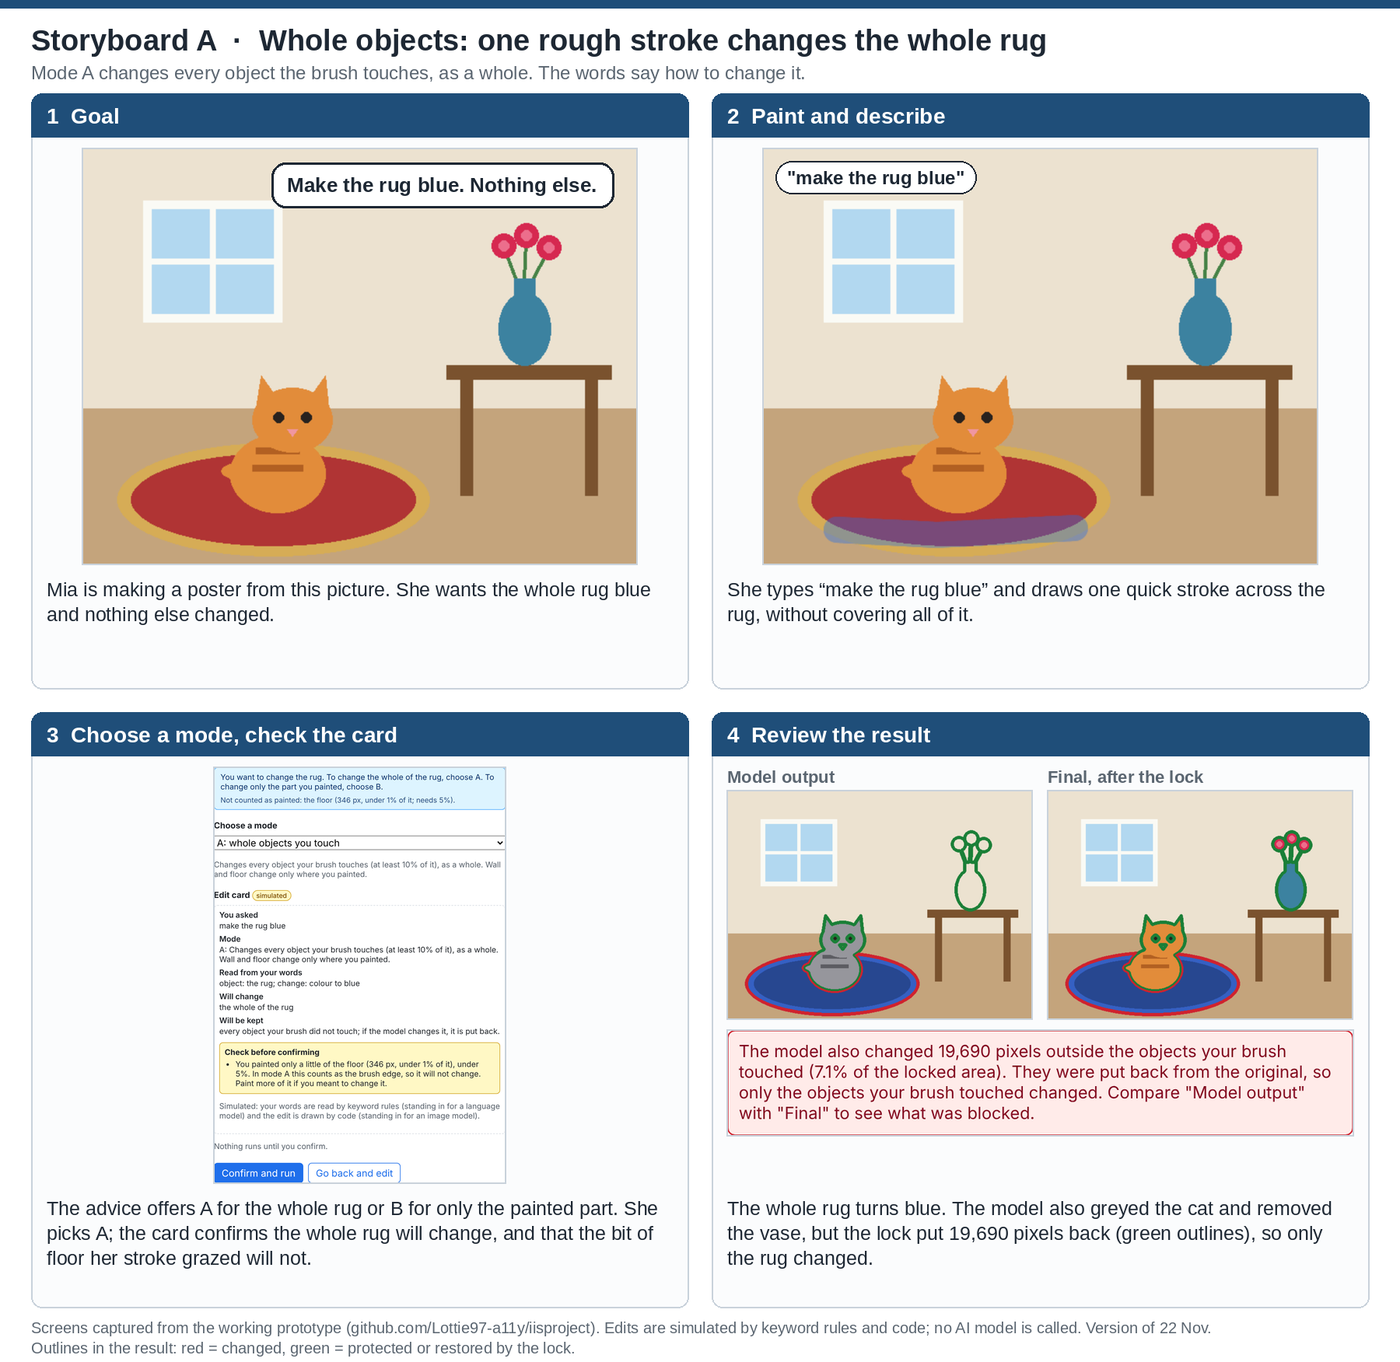
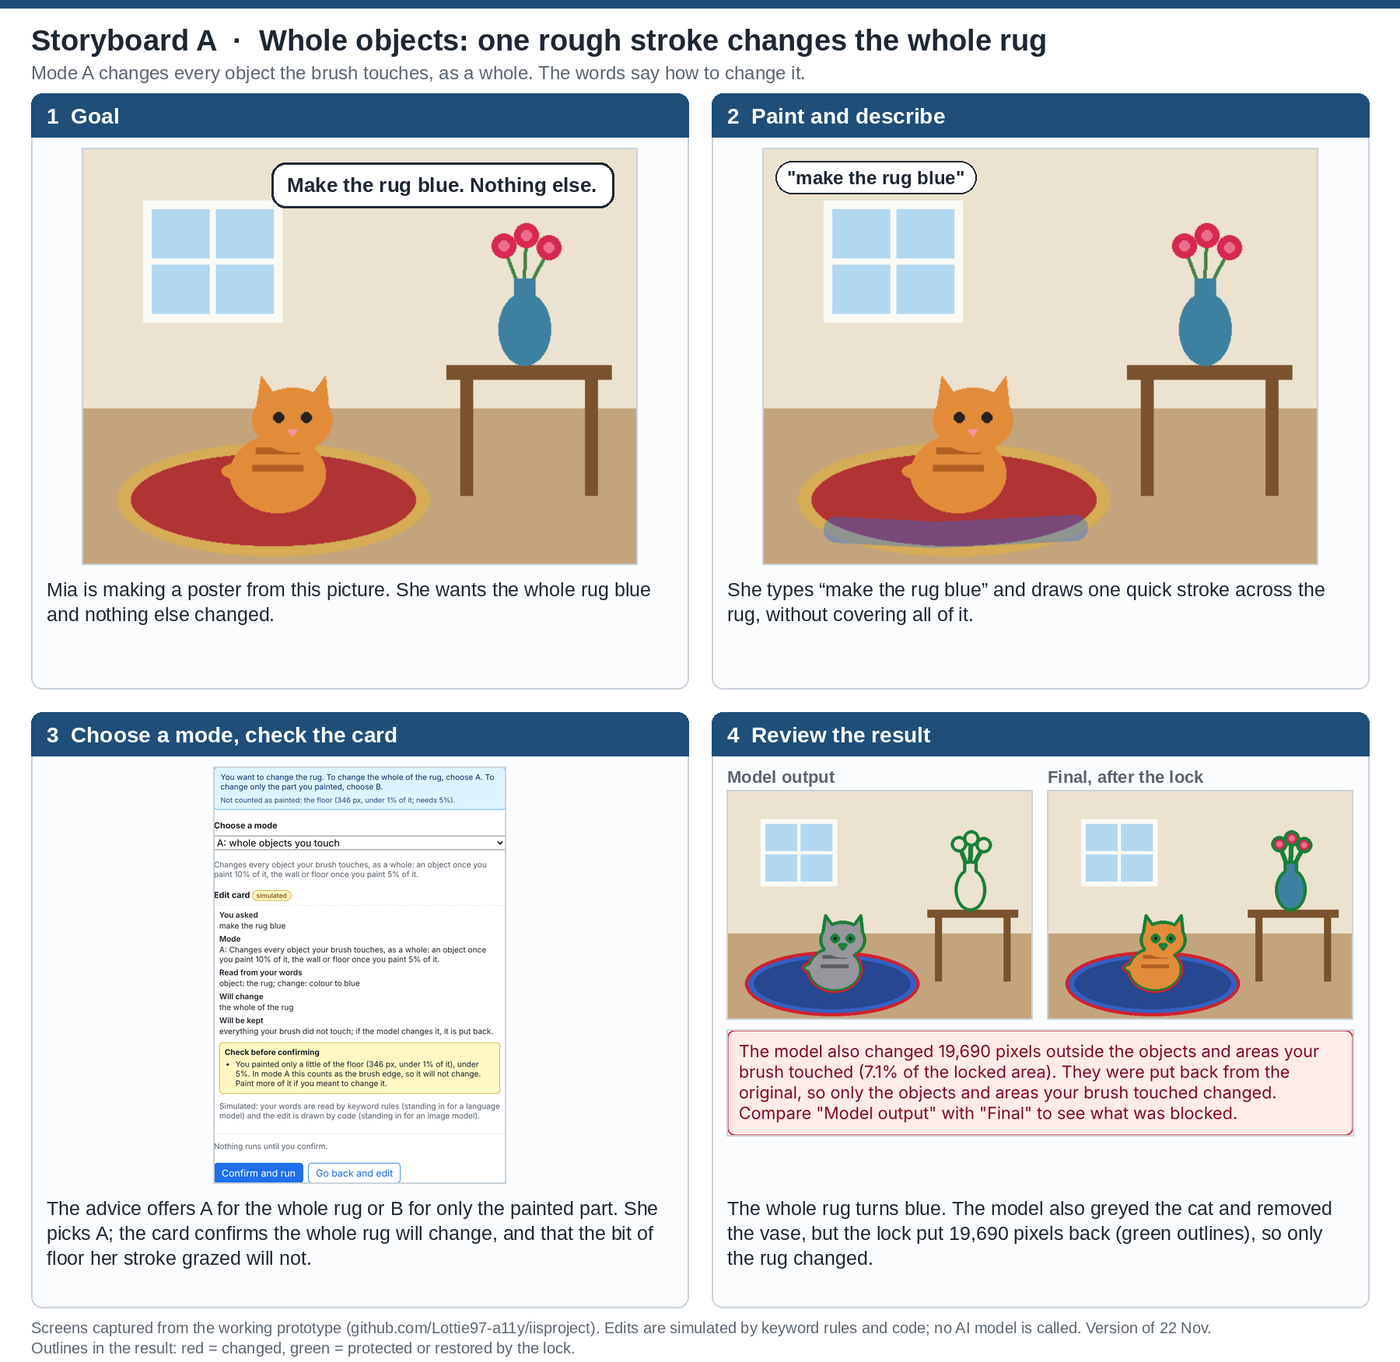
Mode A: wall and floor change as a whole from 5%; fix share display and thresholds in messages; remove old root images

Changed region(s): [[0.5289, 0.7705, 0.9333, 0.8322], [0.2489, 0.6164, 0.3111, 0.6473], [0.28, 0.6781, 0.3111, 0.7089]]

diff --git a/static/app.js b/static/app.js
@@ -12,8 +12,8 @@
 //                   changes the lock reversed.
 //
 // Three modes: which pixels the confirmed edit may change.
-//   A  whole objects: every object the brush touches changes as a whole
-//      (wall and floor only where painted)
+//   A  whole objects: every object the brush touches changes as a whole,
+//      the wall and floor too once enough of them is painted
 //   B  named and painted: only the objects the words name, only where painted
 //   C  painting: everything painted, whatever it is
 // In every mode the simulated model also changes things it was not asked to (like my Lab 3
@@ -38,12 +38,15 @@ const PROTECTED = 2;
 const EDIT_OUTLINE = [207, 34, 46, 255];
 const PROTECTED_OUTLINE = [26, 127, 55, 255];
 // Background ("stuff") comes from the scene data, as a segmentation model would label it;
-// it changes only where painted, never as a whole. Filled in when the sample loads.
+// it needs a smaller painted share to count (5%). Filled in when the sample loads.
 let BACKGROUND = new Set();
 // 22 Nov: share of an object's own area that must be painted for it to count (brush edges below)
 const MIN_SHARE = 0.10;    // objects
 const MIN_SHARE_BG = 0.05; // background
 const pct = (x) => `${Math.round(x * 100)}%`;
+// painted share for messages: one decimal below 10%, so 4.6% is not shown as "5%" next to "needs 5%"
+const sharePct = (s) => (s < 0.01 ? "under 1%" : s < 0.1 ? `${(s * 100).toFixed(1)}%` : pct(s));
+const needPct = (id) => pct(BACKGROUND.has(id) ? MIN_SHARE_BG : MIN_SHARE);
 
 const samples = Array.isArray(window.SAMPLES) ? window.SAMPLES : [];
 
@@ -58,7 +61,7 @@ const state = {
   editableShare: 0,   // share of pixels the user marked as editable (0..1)
   scene: null,        // objects in the current image (static/rules.js)
   objMap: null,       // pixel -> object index
-  confirmed: null,    // what the user confirmed: { mode, instruction, parsed }
+  confirmed: null,    // what the user confirmed: { mode, instruction, parsed, touched, bgTouched, counted }
   original: null,     // ImageData of the unedited image
   outcome: null,      // { raw, final, drift, driftCount, editedCount, lockedCount }
   kept: false,
@@ -94,7 +97,7 @@ function loadSample(sample) {
 }
 
 const MODE_HELP = {
-  A: "Changes every object your brush touches (at least 10% of it), as a whole. Wall and floor change only where you painted.",
+  A: "Changes every object your brush touches, as a whole: an object once you paint 10% of it, the wall or floor once you paint 5% of it.",
   B: "Changes only the objects your words name, and only where you painted them.",
   C: "Changes everything you painted, whatever it is.",
 };
@@ -295,7 +298,7 @@ function analyse(parsed) {
   const paintedObjects = [...paintedBy.keys()].filter(counts);
   const ignored = [...paintedBy.entries()].filter(([id]) => !counts(id)).map(([id, n]) => [id, n, shareOf(id)]);
   const touched = paintedObjects.filter((id) => !BACKGROUND.has(id)); // objects A changes whole
-  // in A, the background changes where painted only from MIN_SHARE_BG of it; less is a brush edge
+  // background painted from MIN_SHARE_BG of it; in A it then changes as a whole, less is a brush edge
   const bgTouched = paintedObjects.filter((id) => BACKGROUND.has(id));
   const bgEdge = ignored.filter(([id]) => BACKGROUND.has(id));
   // share of each object that is painted, in per cent
@@ -310,7 +313,7 @@ function analyse(parsed) {
 //   otherwise (words name none, other or more/fewer objects than painted):
 //     one object      -> the object is not clear: suggest C
 //     several objects -> the scope is not clear: suggest C
-// Nothing painted except wall or floor: no advice.
+// Nothing counts as painted: no advice (makeCard then explains the thresholds).
 function modeAdvice(parsed, a) {
   const painted = a.paintedObjects;
   if (!painted.length) return null;
@@ -323,8 +326,7 @@ function modeAdvice(parsed, a) {
   }
   if (same) {
     const shares = painted.map((id) => `${objName(id)} ${a.share[id]}%`).join(", ");
-    const bgNote = painted.some((id) => BACKGROUND.has(id)) ? " (In A, the wall and floor still change only where you painted.)" : "";
-    return { text: `You want to change ${listNames(painted)}. Share of each object you painted: ${shares}. ${choice("these objects")}${bgNote}` };
+    return { text: `You want to change ${listNames(painted)}. Share of each object you painted: ${shares}. ${choice("these objects")}` };
   }
   if (painted.length === 1) {
     return { text: `You have not made clear which object to change. We suggest mode C, which changes exactly what you painted (${objName(painted[0])}).` };
@@ -351,7 +353,7 @@ function makeCard() {
     const rule = document.createElement("small");
     rule.className = "advice-rule";
     const skipped = a.ignored.map(([id, n, s]) =>
-      `${objName(id)} (${n} px, ${s < 0.01 ? "under 1%" : pct(s)} of it; needs ${BACKGROUND.has(id) ? pct(MIN_SHARE_BG) : pct(MIN_SHARE)})`);
+      `${objName(id)} (${n} px, ${sharePct(s)} of it; needs ${needPct(id)})`);
     rule.textContent = `Not counted as painted: ${skipped.join(", ")}.`;
     box.appendChild(rule);
   }
@@ -403,25 +405,25 @@ function renderCard(mode, typed, parsed, a) {
   let willKeep = "everything you did not paint; if the model changes it, it is put back.";
   if (mode === "A") {
     // 21 Nov (user's design): A changes every object the brush touches, as a whole.
-    const parts = [];
-    if (a.touched.length) parts.push(`the whole of ${listNames(a.touched)}`);
-    if (a.bgTouched.length) parts.push(`${listNames(a.bgTouched)} only where you painted`);
-    willChange = parts.join("; ") || "nothing yet";
-    willKeep = "every object your brush did not touch; if the model changes it, it is put back.";
-    const missed = parsed.targets.filter((id) => !a.touched.includes(id) && !a.bgTouched.includes(id));
-    const extra = a.touched.filter((id) => !parsed.targets.includes(id));
-    if (!a.touched.length && !a.bgTouched.length) {
+    // 22 Nov (user's decision): the wall and floor too, once 5% of them is painted.
+    const all = [...a.touched, ...a.bgTouched];
+    willChange = all.length ? `the whole of ${listNames(all)}` : "nothing yet";
+    willKeep = "everything your brush did not touch; if the model changes it, it is put back.";
+    const missed = parsed.targets.filter((id) => !all.includes(id));
+    const extra = all.filter((id) => !parsed.targets.includes(id));
+    if (!all.length) {
       block.push(`Your brush only grazes the edges (under ${pct(MIN_SHARE)} of an object or ${pct(MIN_SHARE_BG)} of the background), so in mode A nothing would change. Paint more of the object you want to change.`);
     }
     if (a.bgEdge.length) {
-      const edges = a.bgEdge.map(([id, n, s]) => `${objName(id)} (${n} px, ${s < 0.01 ? "under 1%" : pct(s)} of it)`);
+      const edges = a.bgEdge.map(([id, n, s]) => `${objName(id)} (${n} px, ${sharePct(s)} of it)`);
       warn.push(`You painted only a little of ${edges.join(" and ")}, under ${pct(MIN_SHARE_BG)}. In mode A this counts as the brush edge, so `
         + `${a.bgEdge.length > 1 ? "they" : "it"} will not change. Paint more of ${a.bgEdge.length > 1 ? "them" : "it"} if you meant to change ${a.bgEdge.length > 1 ? "them" : "it"}.`);
     }
-    if (missed.length) warn.push(`Your words name ${listNames(missed)}, but you did not paint enough of ${missed.length > 1 ? "them" : "it"} to count (at least ${pct(MIN_SHARE)}). This mode changes what you paint, so ${listNames(missed)} will not change.`);
-    if (a.touched.length > 1) {
-      // 22 Nov: extra warning whenever the brush range will change more than one whole object
-      warn.push(`Your brush touches ${a.touched.length} objects: ${listNames(a.touched)}. Mode A will change each of them as a whole`
+    if (missed.length) warn.push(`Your words name ${listNames(missed)}, but you did not paint enough of ${missed.length > 1 ? "them" : "it"} to count (`
+      + missed.map((id) => `at least ${needPct(id)} of ${objName(id)}`).join(", ") + `). This mode changes what you paint, so ${listNames(missed)} will not change.`);
+    if (all.length > 1) {
+      // 22 Nov: extra warning whenever the brush range will change more than one whole object or area
+      warn.push(`Your brush touches ${all.length} ${a.bgTouched.length ? "areas" : "objects"}: ${listNames(all)}. Mode A will change each of them as a whole`
         + (extra.length ? `, including ${listNames(extra)}, which your words do not name` : "")
         + `. If you meant only one object, go back and paint inside it, or choose B.`);
     } else if (named && extra.length) {
@@ -480,7 +482,7 @@ function renderCard(mode, typed, parsed, a) {
   card.appendChild(note);
 
   $("confirmBtn").disabled = block.length > 0;
-  state.pending = { mode, instruction: typed, parsed, touched: a.touched, bgTouched: a.bgTouched };
+  state.pending = { mode, instruction: typed, parsed, touched: a.touched, bgTouched: a.bgTouched, counted: a.paintedObjects };
 }
 
 function confirmEdit() {
@@ -503,7 +505,7 @@ function inScope(conf, p, painted) {
   const id = k >= 0 ? state.scene.objects[k].id : null;
   if (conf.mode === "A") {
     if (!id) return painted;
-    return BACKGROUND.has(id) ? painted && conf.bgTouched.includes(id) : conf.touched.includes(id);
+    return conf.touched.includes(id) || conf.bgTouched.includes(id); // whole objects, wall and floor alike
   }
   if (conf.mode === "B") return painted && !!id && conf.parsed.targets.includes(id);
   return painted;
@@ -528,7 +530,7 @@ function simulateModel(conf) {
   }
   // Unwanted extra changes, as a real model makes (my Lab 3 Test B), in every mode. Objects
   // the edit is meant to change are left alone; the lock puts the rest back.
-  const meant = new Set(mode === "A" ? conf.touched : parsed.targets);
+  const meant = new Set(mode === "A" ? [...conf.touched, ...conf.bgTouched] : parsed.targets);
   if (mode === "C") for (let p = 0; p < edited.length; p++) if (edited[p] && state.objMap[p] >= 0) meant.add(objs[state.objMap[p]].id);
   {
     for (const d of state.scene.drift) {
@@ -607,7 +609,7 @@ function reportDrift() {
   const box = $("driftReport");
   const pct = o.lockedCount ? ((o.driftCount / o.lockedCount) * 100).toFixed(1) : "0.0";
   const conf = state.confirmed;
-  const scope = conf.mode === "A" ? "the objects your brush touched"
+  const scope = conf.mode === "A" ? "the objects and areas your brush touched"
     : conf.mode === "B" ? `the painted part of ${listNames(conf.parsed.targets)}` : "the area you painted";
   $("outlineKey").textContent = "Red marks edits kept in the final image. Green marks changes the lock reversed.";
   const offTarget = offTargetChanges();
@@ -629,20 +631,12 @@ function reportDrift() {
   }
 }
 
-// Objects changed in the final image that the user's words did not name (modes A and C).
+// Areas changed that the user's words did not name (modes A and C), by the same 10% / 5%
+// rule as the card. In C the wall and floor change only where painted, so they are not listed.
 function offTargetChanges() {
-  const { parsed } = state.confirmed;
-  if (!parsed.targets.length) return [];
-  const f = state.outcome.final.data, orig = state.original.data;
-  const count = new Map();
-  for (let i = 0; i < f.length; i += 4) {
-    if (f[i] === orig[i] && f[i + 1] === orig[i + 1] && f[i + 2] === orig[i + 2]) continue;
-    const k = state.objMap[i / 4];
-    if (k < 0) continue;
-    const id = state.scene.objects[k].id;
-    if (!parsed.targets.includes(id) && !BACKGROUND.has(id)) count.set(id, (count.get(id) || 0) + 1);
-  }
-  return [...count.entries()].filter(([, n]) => n >= 40).map(([id]) => id);
+  const { mode, parsed, counted } = state.confirmed;
+  if (!parsed.targets.length || mode === "B") return [];
+  return counted.filter((id) => !parsed.targets.includes(id) && (mode === "A" || !BACKGROUND.has(id)));
 }
 
 function viewName() {

diff --git a/static/rules.js b/static/rules.js
@@ -5,7 +5,7 @@
 // 2. SCENE: the objects in samples/room.png. Every object is drawn in its own flat colours
 //    (see tools/make_sample.py), so each pixel can be assigned to an object by its colour.
 //    This stands in for a segmentation model.
-// 3. editPixels(): draws the edit in code. It stands in for an image-editing model.
+// 3. editPixel(): draws the edit in code. It stands in for an image-editing model.
 
 window.SCENE = {
   "room.png": {
@@ -23,8 +23,8 @@ window.SCENE = {
       { id: "wall", words: ["wall", "walls"], colours: [[236, 226, 208]], stuff: true }, // stuff = background, as a segmentation model would label it
       { id: "floor", words: ["floor"], colours: [[196, 164, 124]], stuff: true },
     ],
-    // Mode B only: unwanted changes a words-led, whole-image model also makes (as in my
-    // Lab 3 Test B). Each applies only if none of its objects is named in the instruction.
+    // Unwanted changes a whole-image model also makes (as in my Lab 3 Test B), in every mode.
+    // Each applies only if none of its objects is meant to change (see simulateModel()).
     drift: [
       { objects: ["cat"], map: [[[226, 140, 58], [150, 150, 156]], [[178, 96, 34], [92, 92, 98]]] }, // grey tabby
       { objects: ["vase", "roses"], vanish: true }, // the vase of roses disappears

diff --git a/index.html b/index.html
@@ -113,6 +113,6 @@
 
   <script src="static/samples.js?v=20261120a"></script>
   <script src="static/rules.js?v=20261122c"></script>
-  <script src="static/app.js?v=20261122c"></script>
+  <script src="static/app.js?v=20261122d"></script>
 </body>
 </html>

diff --git a/README.md b/README.md
@@ -1,6 +1,6 @@
 # Region-locked image editing (IIS A2 prototype)
 
-Prose word count: 1825 (code and commands not counted)
+Prose word count: 1983 (code and commands not counted)
 
 When people use text prompts to edit part of an AI-generated image, the model can change other parts they wanted to keep. Building on my A1 literature review, this browser prototype explores letting users lock those areas so the system preserves them during editing. It compares three ways of combining the user's words with their painting.
 
@@ -12,7 +12,7 @@ Live page: https://lottie97-a11y.github.io/iisproject/
 | --- | --- |
 | Sample image on a canvas, browser only | implemented |
 | Mask painting (brush size, erase, clear); painted area in blue; optional dimming outside the brush strokes, with painted areas in their true colours | implemented |
-| Three modes: A changes every object the brush touches, as a whole (wall and floor only where painted); B changes only the objects the words name, only where painted; C changes everything painted. In every mode the simulated model also makes unwanted changes (the cat turns grey, the vase of roses vanishes), which the lock puts back | the choice is implemented; each mode's edit is simulated |
+| Three modes: A changes every object the brush touches, as a whole, the wall and floor included; B changes only the objects the words name, only where painted; C changes everything painted. In every mode the simulated model also makes unwanted changes (the cat turns grey, the vase of roses vanishes), which the lock puts back | the choice is implemented; each mode's edit is simulated |
 | Reading the instruction (object, colour, brighter or darker) | simulated: keyword rules stand in for a language model |
 | Mode chosen on the edit-card step, with advice on which mode to choose (an object counts as painted from 10% of its area, the background from 5%); the card is built from the words, the painting and the mode and rebuilt when the mode changes; it warns about painted objects the words do not name and blocks a run that would change nothing | implemented |
 | Confirm / go back: the result step opens only after Confirm | implemented |
@@ -56,7 +56,9 @@ The first two changes are in commit [4407188](https://github.com/Lottie97-a11y/i
 - **21 Nov – Whole-object selection in A.** A brush stroke selects each named object it touches in full. Unnamed objects touched by the same stroke keep their original colours and get green outlines. Replaced the same day (next entry).
 - **21 Nov – Three modes redefined.** A now changes every object the brush touches, as a whole (wall and floor only where painted); B changes only the named objects, only where painted (the former A); C is unchanged. The model's unwanted changes now happen in every mode, so the lock is tested in all three. The mode is now chosen on the edit-card step, so the same painting and words can be compared across modes; on the result page, "Back to previous step" (formerly "Back to original") undoes the edit and returns to that step. On that step, advice suggests a mode: if the words name exactly the painted objects, A (whole objects) or B (painted parts), with the painted share of each object when there are several; otherwise C. In mode A, the edit card also warns whenever the brush touches more than one object, since each will change as a whole. An object counted as painted only from 40 pixels, and the background (wall, floor) only from 500 pixels, because it surrounds every object and a brush edge touches it easily (replaced by shares on 22 Nov). Page 1 states this rule and names the objects and the background; page 2 lists anything the brush touched that was not counted, only when there is something. Why: whole-object selection could not change part of an object, such as half the rug, while the overlap rule needed the whole object painted to change all of it; giving each rule its own mode covers both, and choosing the mode after painting lets the same input be compared. Checked: after each change Claude ran test cases in a headless browser and I reviewed the screenshots; counting the floor like an object made almost every case "unclear", so I chose a 500-pixel threshold for the background; on the live page I checked the tool and result buttons and asked for them to match.
 - **22 Nov – Background edges in A.** In mode A, a wall or floor painted under 500 pixels is now treated as the brush edge and left unchanged, and the edit card says so; if nothing else is touched, the run is blocked. Why: the advice already said such a background was not counted, but the edit still recoloured it. Checked: I spotted in storyboard A that 346 floor pixels turned blue although the advice said the floor was not counted; after the fix, Claude reran the case and the floor was unchanged.
-- **22 Nov – Thresholds as shares; background from scene labels.** An object now counts as painted only when at least 10% of its own area is painted, and the wall or floor at 5%; these replace the fixed 40 and 500 pixels. The wall and floor are labelled background in the scene data, as a segmentation model would label "stuff", rather than chosen by their area in the picture. Why: Claude measured the painted share of each object for typical strokes; painting the cat normally grazed 377 pixels (1.3%) of the rug, which passed the 40-pixel rule, so mode A would have changed the whole rug as well. A share scales with the size of each object, while a rule based on picture area would mislabel a close-up. Checked: I chose 10% and 5% after reading those measurements; Claude reran the cases, and painting the cat now changes only the cat, while a small dab on the roses (5%) no longer counts, which the page explains.
+- **22 Nov – Thresholds as shares; background from scene labels.** An object now counts as painted only when at least 10% of its own area is painted, and the wall or floor at 5%; these replace the fixed 40 and 500 pixels. The wall and floor are labelled background in the scene data, as a segmentation model would label "stuff", rather than chosen by their area in the picture. Why: Claude measured the painted share of each object for typical strokes; painting the cat normally grazed 377 pixels (1.3%) of the rug, which passed the 40-pixel rule, so mode A would have changed the whole rug as well. A share scales with the size of each object, while a rule based on picture area would mislabel a close-up. Checked: I chose 10% and 5% after reading those measurements; Claude reran the cases, and painting the cat now changes only the cat, while a small dab on the roses (4.6%) no longer counts, which the page explains.
+
+- **22 Nov – Wall and floor as a whole in A.** In mode A the wall and floor now change as a whole once 5% of them is painted, like every other object; below 5% they still count as the brush edge and stay unchanged. Why: I decided that mode A should treat every area the same way, and the advice already told users to "choose A to change the whole of the wall", which A did not do. Painted shares on page 2 now show one decimal below 10%, so 4.6% no longer reads as "5%" next to "needs 5%". Checked: Claude reran the cases: painting part of the rug and 6,877 pixels of the floor in A now changes the whole rug and the whole floor (71,454 pixels), with a warning that the brush touches two areas; the same painting in C changes only the painted pixels.
 
 ## AI assistance
 
@@ -64,7 +66,7 @@ The first two changes are in commit [4407188](https://github.com/Lottie97-a11y/i
 - **Claude** wrote the code (`index.html`, `static/`, `tools/`) and drafted this README from my plan and decisions; the project description is adapted in my own words.
 - **Claude** also tested each change in a headless browser and made the system diagram and storyboards in `docs/` from screenshots of the working prototype, for me to review.
 - My decisions: a browser-only page; simulated edits rather than live models; a room scene that follows my storyboards; three modes that compare words-led, painting-led and overlap editing.
-- Changes I made to Claude's design: its first version greyed out everything I had not painted, which hid the whole image, so I asked for a blue tint with an optional dark view; and I noticed its pre-recorded results ignored my painting, which led to the three modes. Later I redefined the modes, moved the mode choice to the edit-card step, and specified the advice rules and the warning for several objects in A.
+- Changes I made to Claude's design: its first version greyed out everything I had not painted, which hid the whole image, so I asked for a blue tint with an optional dark view; and I noticed its pre-recorded results ignored my painting, which led to the three modes. Later I redefined the modes, moved the mode choice to the edit-card step, specified the advice rules and the warning for several objects in A, and decided that A changes the wall and floor as a whole.
 
 ## Additional files
 
